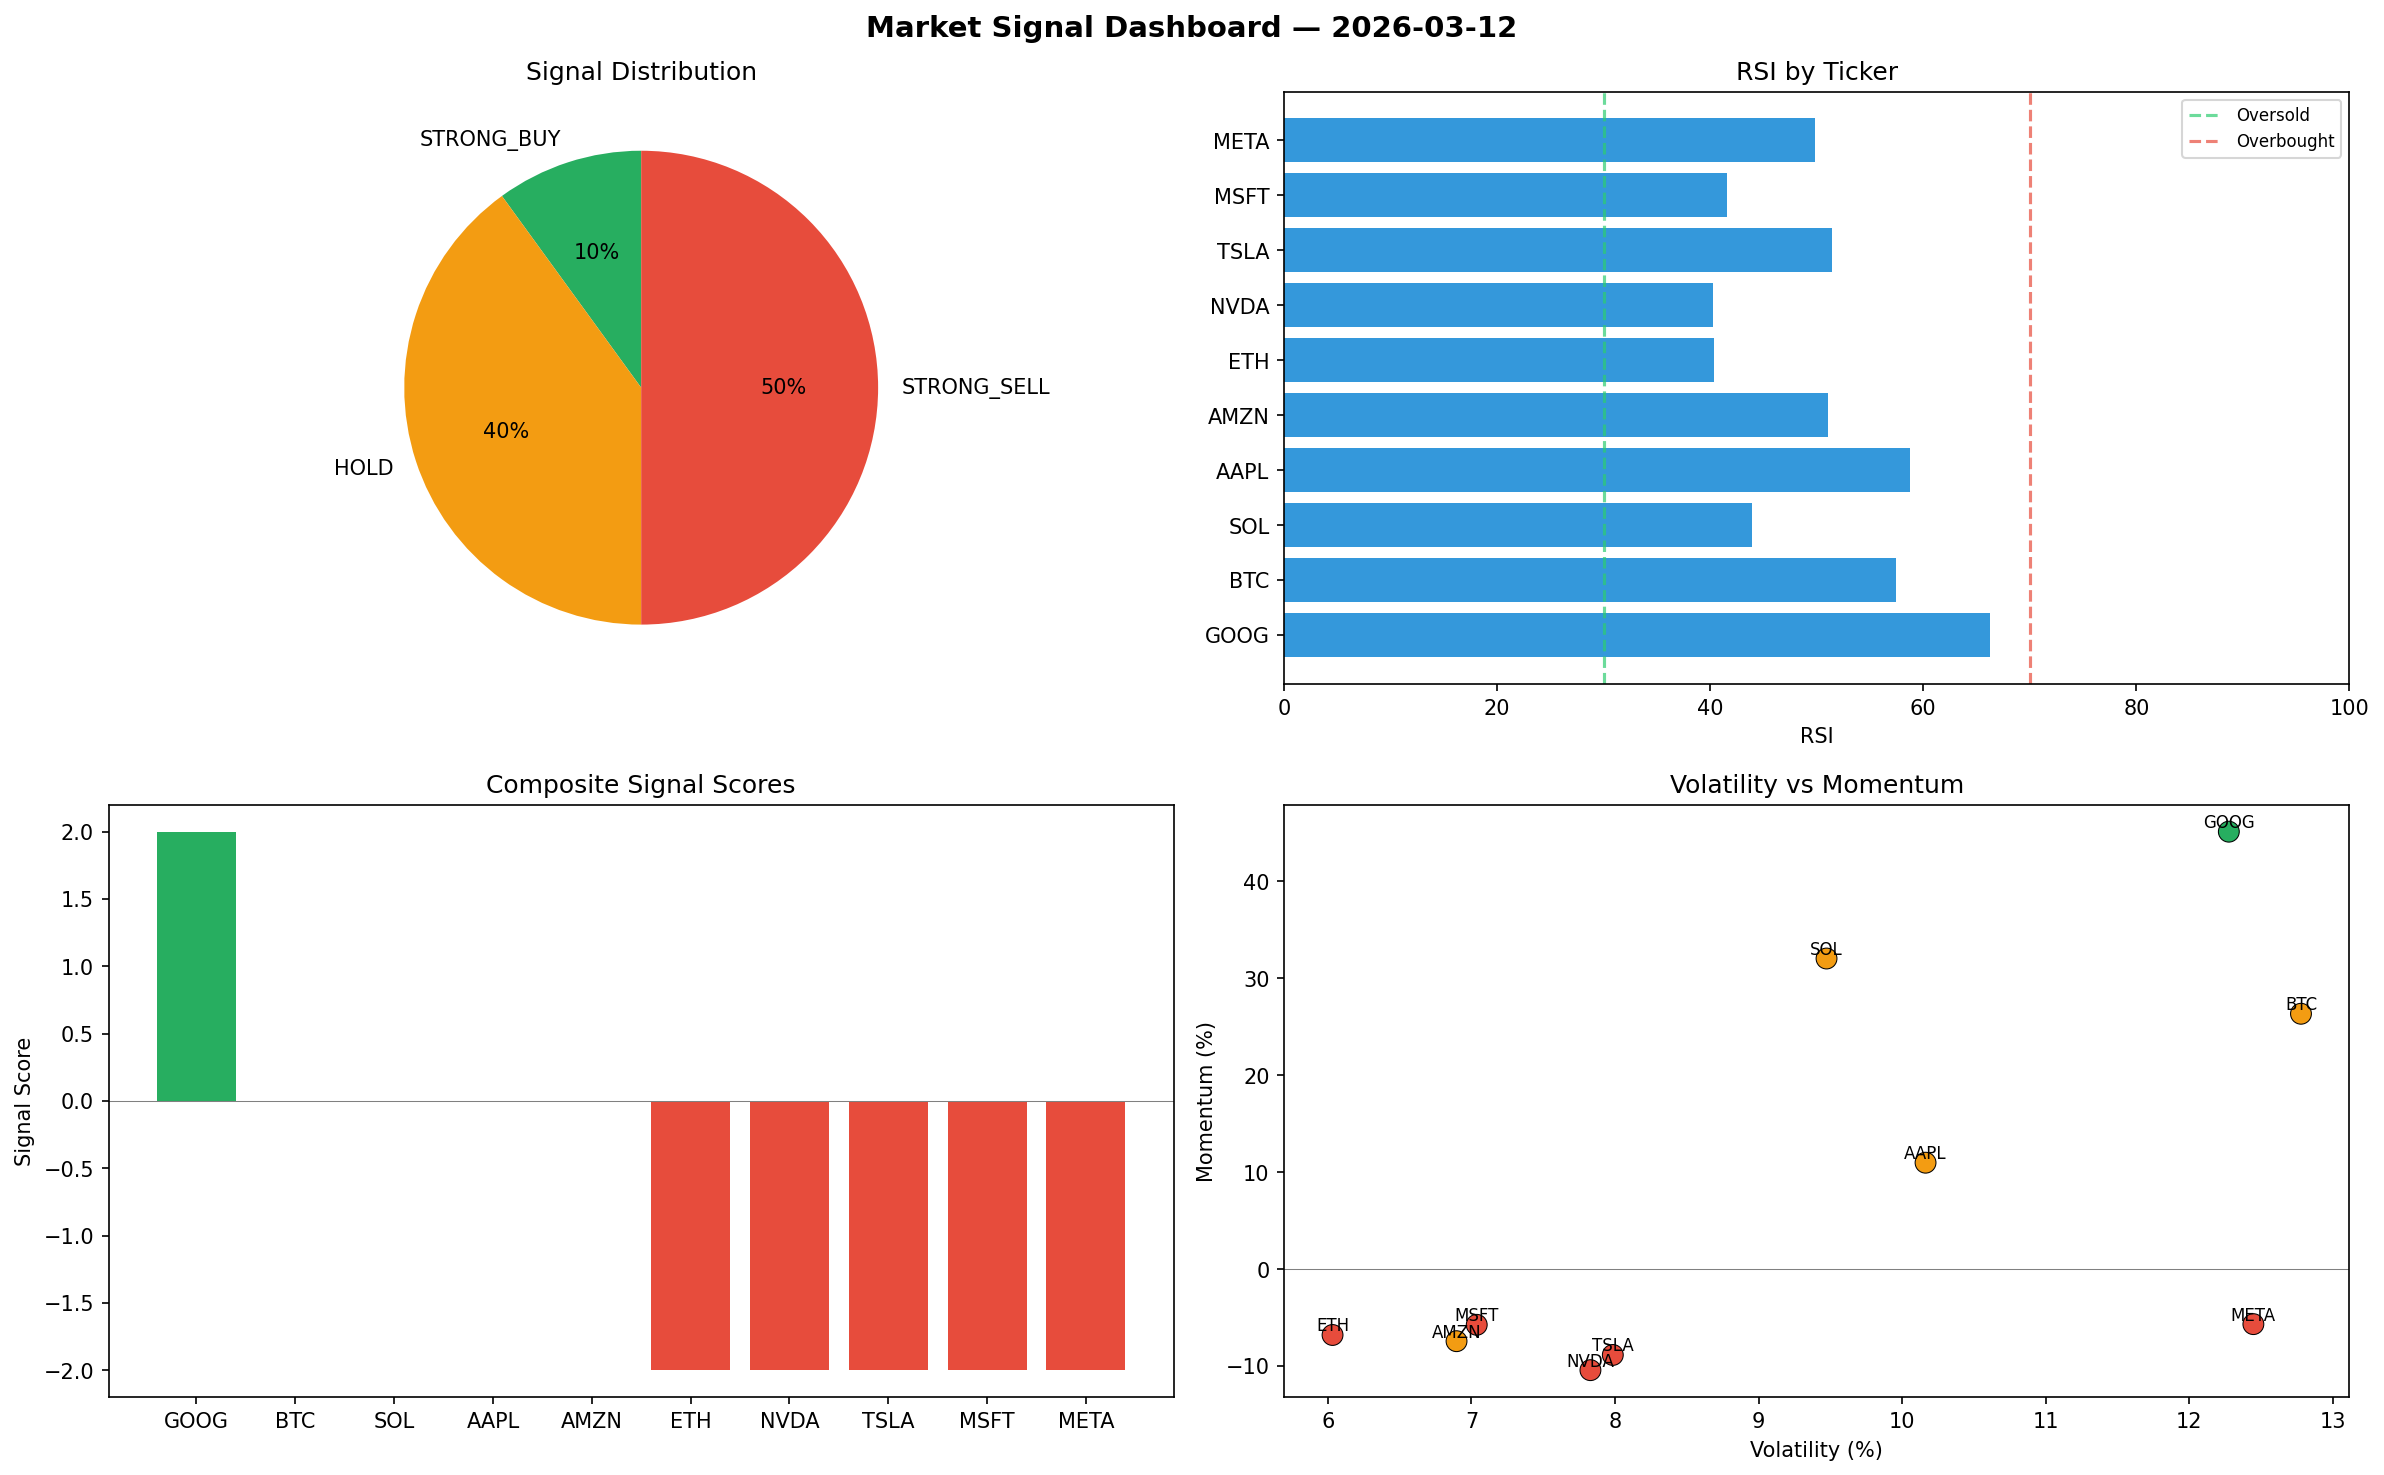
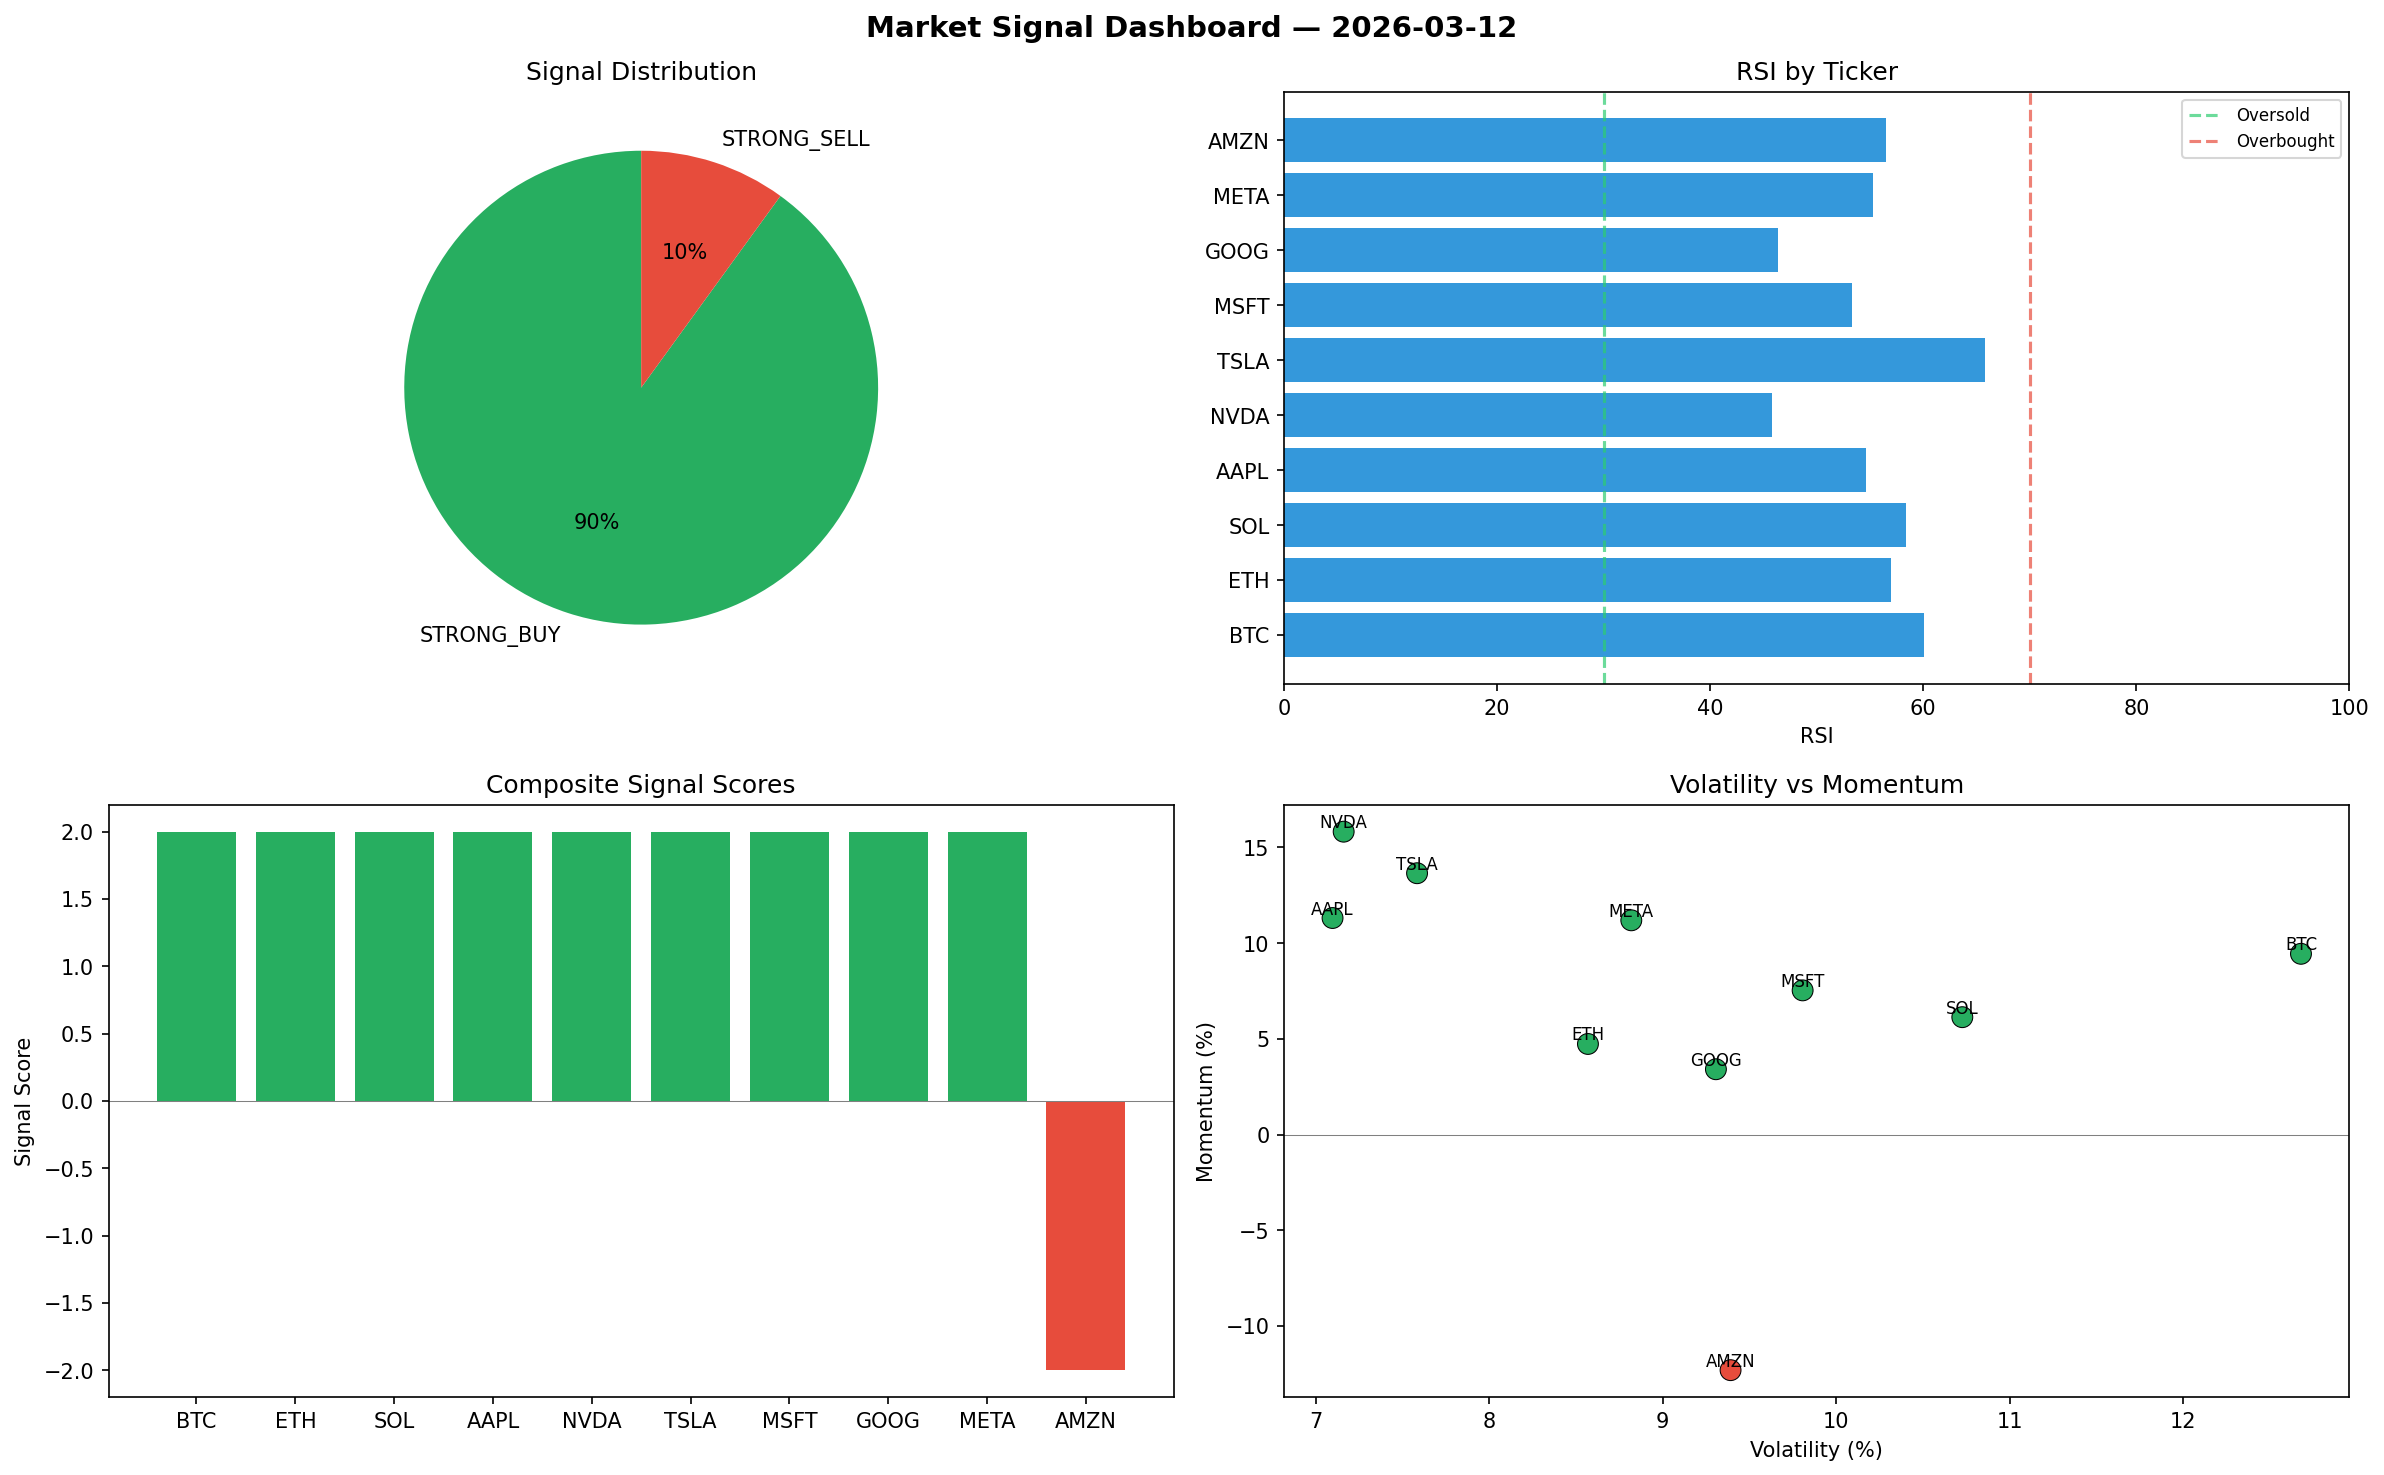
automated-bots: market signals 2026-03-12T20:58

diff --git a/logs/2026-03-12.md b/logs/2026-03-12.md
@@ -1,6 +1,6 @@
 # Market Signal Report — 2026-03-12
 
-**Run ID:** `ed37966cd4` | **Buy:** 1 | **Sell:** 5 | **Hold:** 4
+**Run ID:** `c4cecc6bd1` | **Buy:** 9 | **Sell:** 1 | **Hold:** 0
 
 ![Dashboard](2026-03-12_dashboard.png)
 
@@ -8,28 +8,28 @@
 
 | Ticker | Price | Signal | Score | RSI | Momentum | Confidence |
 |--------|-------|--------|-------|-----|----------|------------|
-| GOOG | $3728.2 | **STRONG_BUY** | 2 | 66.29 | 0.4514 | 0.5 |
-| BTC | $2144.35 | **HOLD** | 0 | 57.45 | 0.2635 | 0.0 |
-| SOL | $3699.92 | **HOLD** | 0 | 43.9 | 0.3205 | 0.0 |
-| AAPL | $4211.38 | **HOLD** | 0 | 58.73 | 0.1098 | 0.0 |
-| AMZN | $2973.76 | **HOLD** | 0 | 51.09 | -0.0744 | 0.0 |
-| ETH | $1673.84 | **STRONG_SELL** | -2 | 40.38 | -0.068 | 0.5 |
-| NVDA | $4648.07 | **STRONG_SELL** | -2 | 40.25 | -0.1043 | 0.5 |
-| TSLA | $1378.17 | **STRONG_SELL** | -2 | 51.41 | -0.0886 | 0.5 |
-| MSFT | $746.51 | **STRONG_SELL** | -2 | 41.59 | -0.0575 | 0.5 |
-| META | $4867.68 | **STRONG_SELL** | -2 | 49.87 | -0.0568 | 0.5 |
+| BTC | $1367.49 | **STRONG_BUY** | 2 | 60.02 | 0.0944 | 0.5 |
+| ETH | $2587.18 | **STRONG_BUY** | 2 | 56.97 | 0.0473 | 0.5 |
+| SOL | $1687.49 | **STRONG_BUY** | 2 | 58.37 | 0.0613 | 0.5 |
+| AAPL | $1595.76 | **STRONG_BUY** | 2 | 54.66 | 0.1131 | 0.5 |
+| NVDA | $1818.3 | **STRONG_BUY** | 2 | 45.79 | 0.1582 | 0.5 |
+| TSLA | $176.36 | **STRONG_BUY** | 2 | 65.75 | 0.1365 | 0.5 |
+| MSFT | $289.0 | **STRONG_BUY** | 2 | 53.33 | 0.0753 | 0.5 |
+| GOOG | $759.95 | **STRONG_BUY** | 2 | 46.36 | 0.0341 | 0.5 |
+| META | $3998.25 | **STRONG_BUY** | 2 | 55.31 | 0.1119 | 0.5 |
+| AMZN | $3866.91 | **STRONG_SELL** | -2 | 56.49 | -0.1231 | 0.5 |
 
 ## Delta vs Yesterday
 
 | Ticker | Today | Yesterday | Price Change | Signal Changed |
 |--------|-------|-----------|-------------|----------------|
-| GOOG | STRONG_BUY | HOLD | 📉 -15.9% | ⚠ YES |
-| BTC | HOLD | STRONG_SELL | 📈 121.82% | ⚠ YES |
-| SOL | HOLD | HOLD | 📈 56.99% | — |
-| AAPL | HOLD | HOLD | 📉 -6.63% | — |
-| AMZN | HOLD | STRONG_BUY | 📈 39.79% | ⚠ YES |
-| ETH | STRONG_SELL | SELL | 📉 -14.96% | ⚠ YES |
-| NVDA | STRONG_SELL | STRONG_SELL | 📈 12.03% | — |
-| TSLA | STRONG_SELL | STRONG_SELL | 📈 101.7% | — |
-| MSFT | STRONG_SELL | STRONG_SELL | 📈 99.47% | — |
-| META | STRONG_SELL | BUY | 📈 2177.6% | ⚠ YES |
+| BTC | STRONG_BUY | STRONG_SELL | 📈 41.46% | ⚠ YES |
+| ETH | STRONG_BUY | SELL | 📈 31.45% | ⚠ YES |
+| SOL | STRONG_BUY | HOLD | 📉 -28.4% | ⚠ YES |
+| AAPL | STRONG_BUY | HOLD | 📉 -64.62% | ⚠ YES |
+| NVDA | STRONG_BUY | STRONG_SELL | 📉 -56.17% | ⚠ YES |
+| TSLA | STRONG_BUY | STRONG_SELL | 📉 -74.19% | ⚠ YES |
+| MSFT | STRONG_BUY | STRONG_SELL | 📉 -22.78% | ⚠ YES |
+| GOOG | STRONG_BUY | HOLD | 📉 -82.86% | ⚠ YES |
+| META | STRONG_BUY | BUY | 📈 1770.79% | ⚠ YES |
+| AMZN | STRONG_SELL | STRONG_BUY | 📈 81.77% | ⚠ YES |
